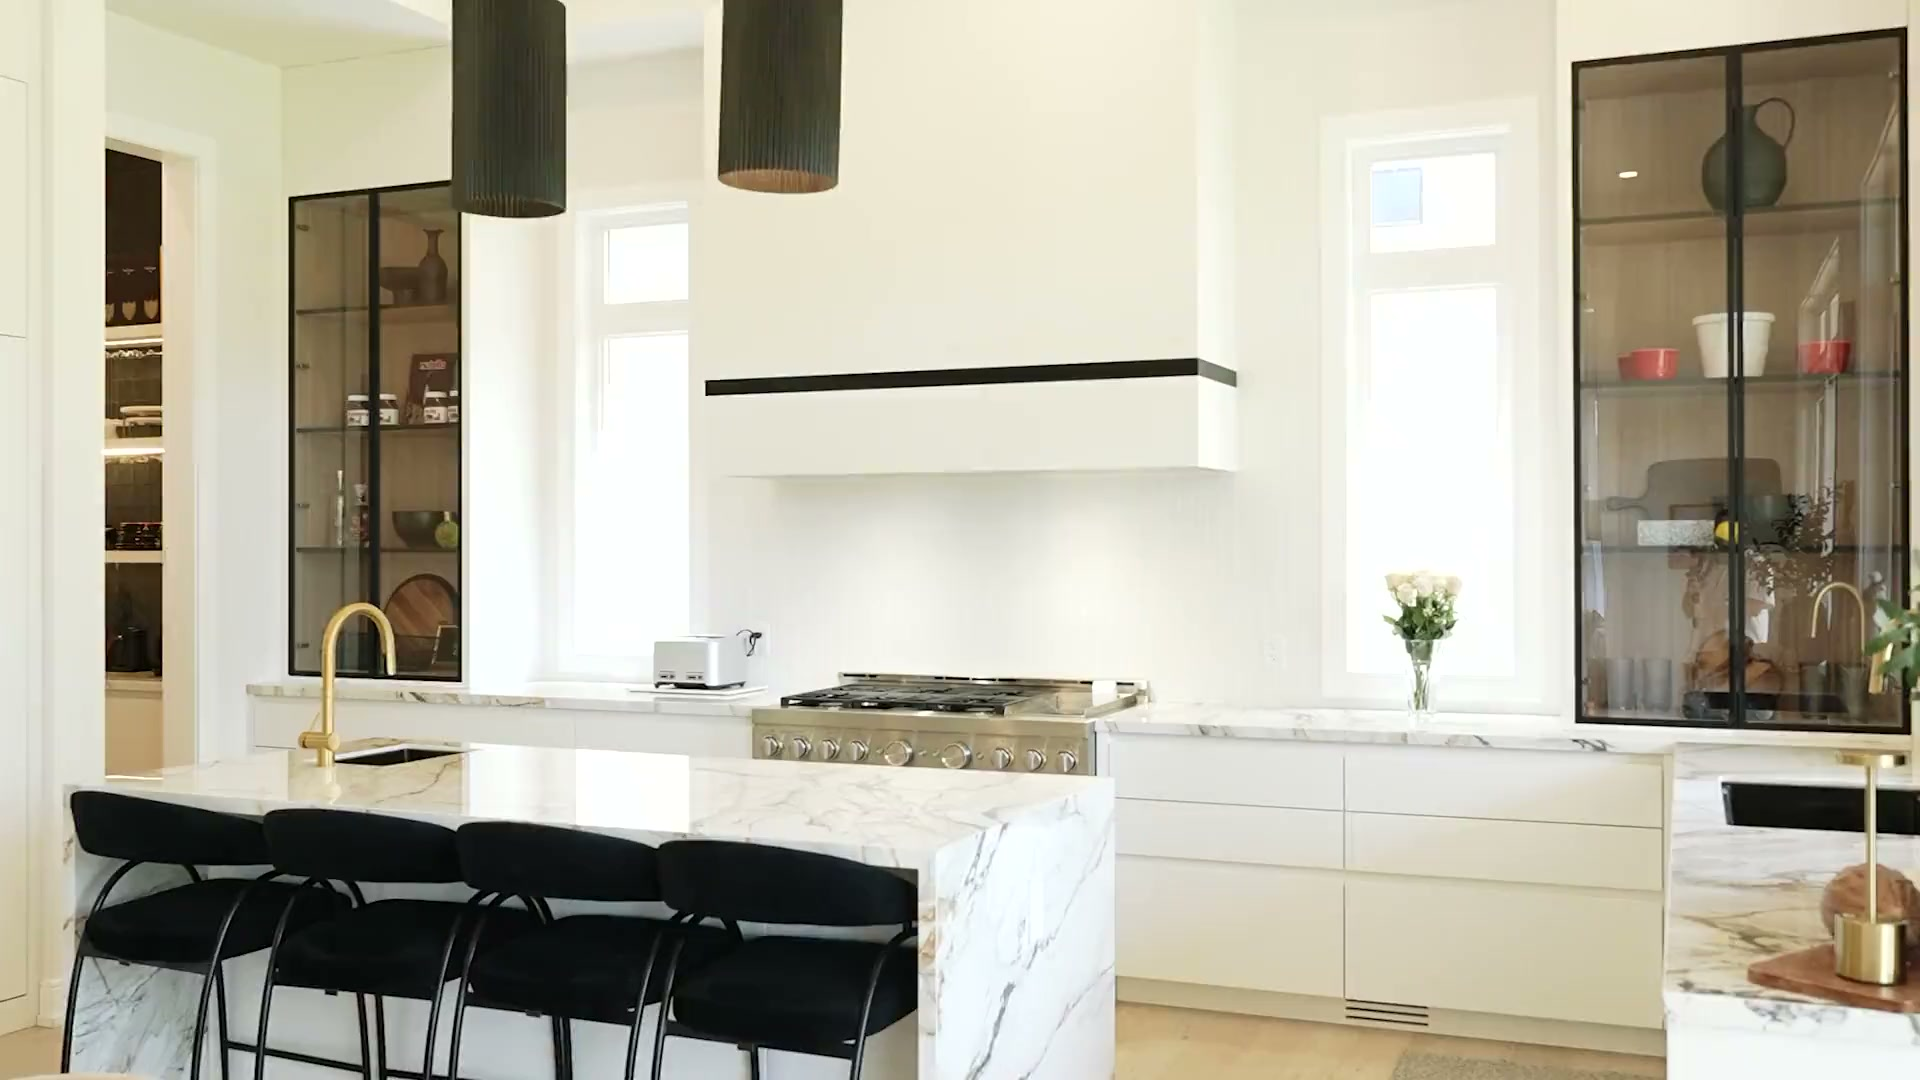
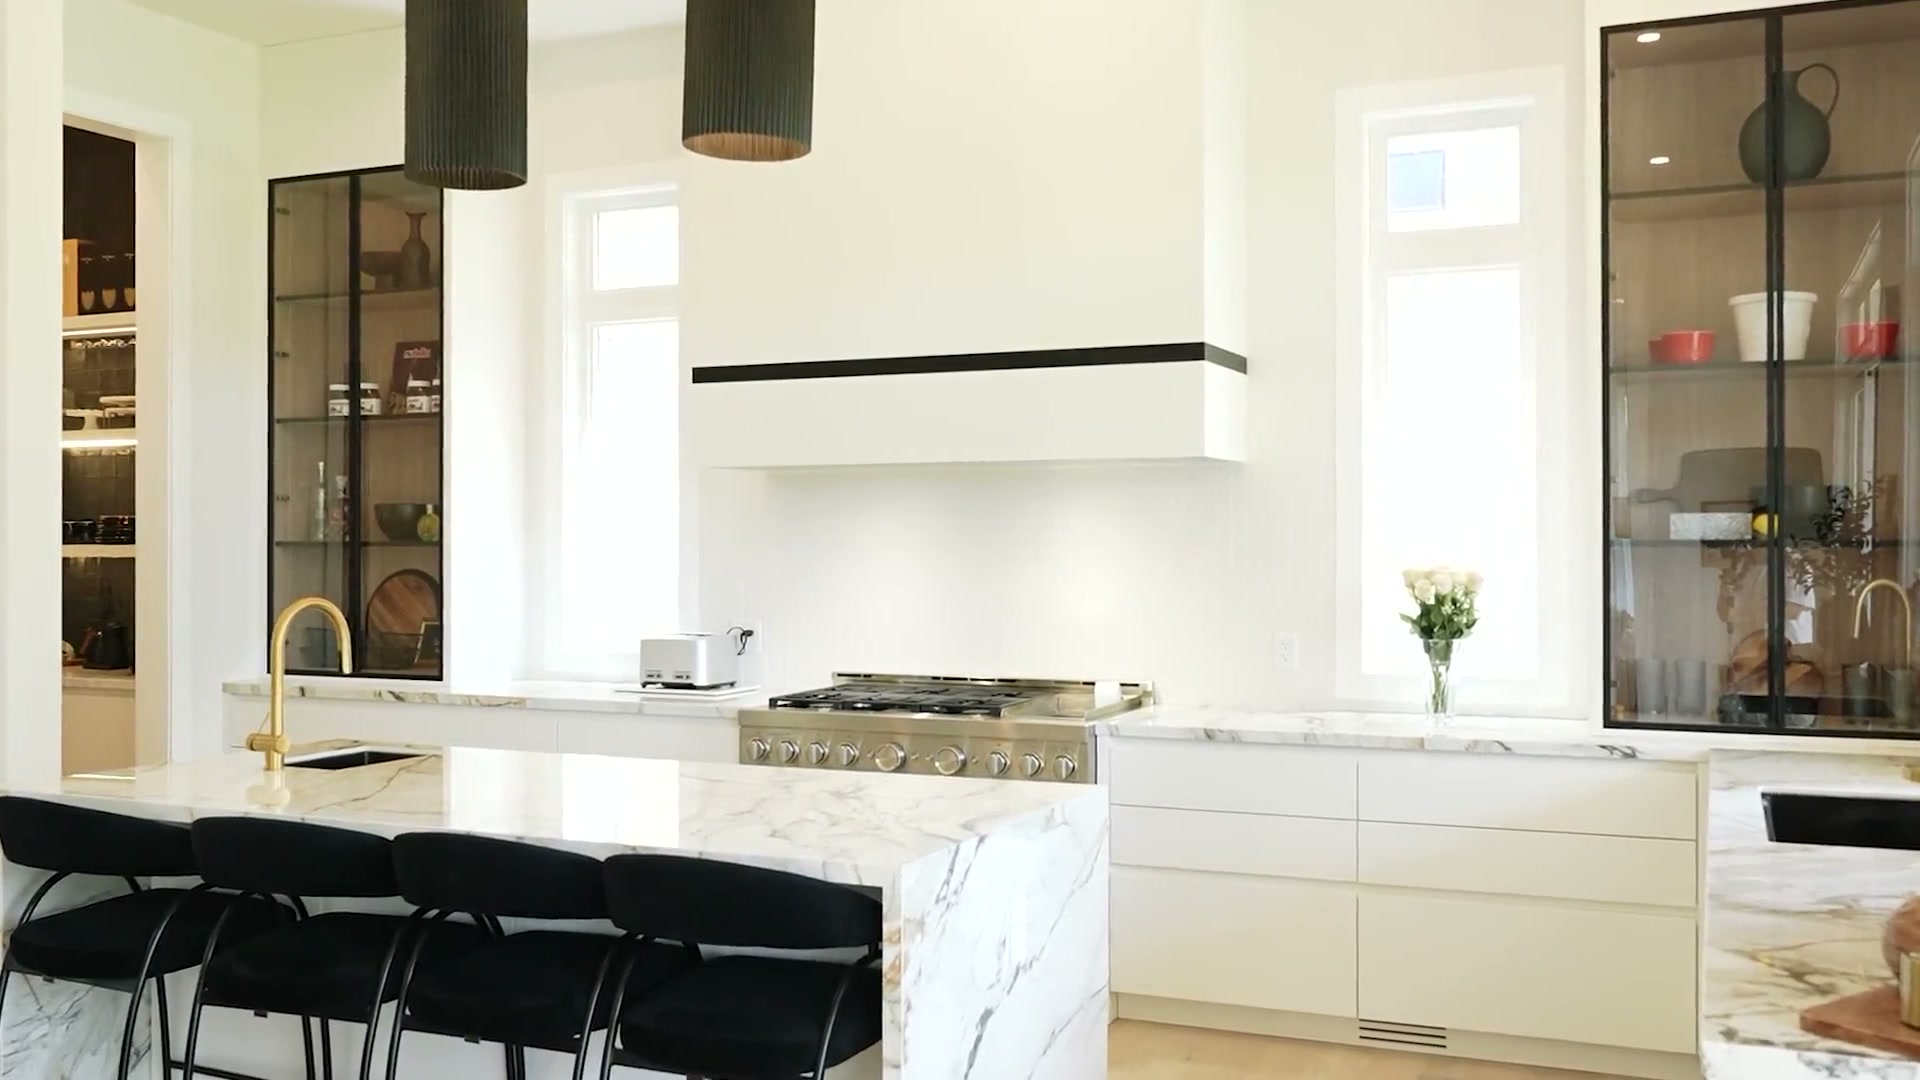
Hero video swap; title -> 'Southbury Homes'; Our Promise -> /about top
- Replace hero.mp4 with new June 29 cut (audio stripped, 1080p,
  faststart); regenerate poster from a 5s frame (opening fades from black)
- Home page <title> now just 'Southbury Homes'
- 'Our Promise' nav links point to /about (top) instead of #care, so it
  lands at the top of the page; home 'About our care' deep-link unchanged

diff --git a/index.html b/index.html
@@ -3,7 +3,7 @@
 <head>
   <meta charset="UTF-8" />
   <meta name="viewport" content="width=device-width, initial-scale=1" />
-  <title>Southbury Homes, Masterful Construction. Exceptional Living.</title>
+  <title>Southbury Homes</title>
   <meta name="description" content="Southbury Homes builds distinguished residences across the Greater Toronto Area. Established 2005. Explore our communities, design studio, homeowner programs and care." />
   <meta name="theme-color" content="#1b1a17" />
 
@@ -85,7 +85,7 @@
             Why Southbury<span class="nav__caret" aria-hidden="true"></span>
           </button>
           <div class="nav__panel" id="dd-about">
-            <a href="/about#care">Our Promise</a>
+            <a href="/about">Our Promise</a>
             <a href="/about#team">Our Lead</a>
           </div>
         </div>
@@ -144,7 +144,7 @@
           <span class="menu__index">04</span>Why Southbury<span class="menu__caret" aria-hidden="true"></span>
         </button>
         <div class="menu__sub"><div class="menu__sub-list">
-          <a href="/about#care">Our Promise</a>
+          <a href="/about">Our Promise</a>
           <a href="/about#team">Our Lead</a>
         </div></div>
       </div>

diff --git a/about.html b/about.html
@@ -54,7 +54,7 @@
         <div class="nav__item">
           <button type="button" class="nav__top nav__top--toggle" aria-expanded="false" aria-controls="dd-about">Why Southbury<span class="nav__caret" aria-hidden="true"></span></button>
           <div class="nav__panel" id="dd-about">
-            <a href="/about#care">Our Promise</a>
+            <a href="/about">Our Promise</a>
             <a href="/about#team">Our Lead</a>
           </div>
         </div>
@@ -97,7 +97,7 @@
       <div class="menu__group">
         <button type="button" class="menu__top" aria-expanded="false"><span class="menu__index">04</span>Why Southbury<span class="menu__caret" aria-hidden="true"></span></button>
         <div class="menu__sub"><div class="menu__sub-list">
-          <a href="/about#care">Our Promise</a>
+          <a href="/about">Our Promise</a>
           <a href="/about#team">Our Lead</a>
         </div></div>
       </div>

diff --git a/building-your-home.html b/building-your-home.html
@@ -54,7 +54,7 @@
         <div class="nav__item">
           <button type="button" class="nav__top nav__top--toggle" aria-expanded="false" aria-controls="dd-about">Why Southbury<span class="nav__caret" aria-hidden="true"></span></button>
           <div class="nav__panel" id="dd-about">
-            <a href="/about#care">Our Promise</a>
+            <a href="/about">Our Promise</a>
             <a href="/about#team">Our Lead</a>
           </div>
         </div>
@@ -97,7 +97,7 @@
       <div class="menu__group">
         <button type="button" class="menu__top" aria-expanded="false"><span class="menu__index">04</span>Why Southbury<span class="menu__caret" aria-hidden="true"></span></button>
         <div class="menu__sub"><div class="menu__sub-list">
-          <a href="/about#care">Our Promise</a>
+          <a href="/about">Our Promise</a>
           <a href="/about#team">Our Lead</a>
         </div></div>
       </div>

diff --git a/communities.html b/communities.html
@@ -54,7 +54,7 @@
         <div class="nav__item">
           <button type="button" class="nav__top nav__top--toggle" aria-expanded="false" aria-controls="dd-about">Why Southbury<span class="nav__caret" aria-hidden="true"></span></button>
           <div class="nav__panel" id="dd-about">
-            <a href="/about#care">Our Promise</a>
+            <a href="/about">Our Promise</a>
             <a href="/about#team">Our Lead</a>
           </div>
         </div>
@@ -97,7 +97,7 @@
       <div class="menu__group">
         <button type="button" class="menu__top" aria-expanded="false"><span class="menu__index">04</span>Why Southbury<span class="menu__caret" aria-hidden="true"></span></button>
         <div class="menu__sub"><div class="menu__sub-list">
-          <a href="/about#care">Our Promise</a>
+          <a href="/about">Our Promise</a>
           <a href="/about#team">Our Lead</a>
         </div></div>
       </div>

diff --git a/contact.html b/contact.html
@@ -54,7 +54,7 @@
         <div class="nav__item">
           <button type="button" class="nav__top nav__top--toggle" aria-expanded="false" aria-controls="dd-about">Why Southbury<span class="nav__caret" aria-hidden="true"></span></button>
           <div class="nav__panel" id="dd-about">
-            <a href="/about#care">Our Promise</a>
+            <a href="/about">Our Promise</a>
             <a href="/about#team">Our Lead</a>
           </div>
         </div>
@@ -97,7 +97,7 @@
       <div class="menu__group">
         <button type="button" class="menu__top" aria-expanded="false"><span class="menu__index">04</span>Why Southbury<span class="menu__caret" aria-hidden="true"></span></button>
         <div class="menu__sub"><div class="menu__sub-list">
-          <a href="/about#care">Our Promise</a>
+          <a href="/about">Our Promise</a>
           <a href="/about#team">Our Lead</a>
         </div></div>
       </div>

diff --git a/decor-studio.html b/decor-studio.html
@@ -54,7 +54,7 @@
         <div class="nav__item">
           <button type="button" class="nav__top nav__top--toggle" aria-expanded="false" aria-controls="dd-about">Why Southbury<span class="nav__caret" aria-hidden="true"></span></button>
           <div class="nav__panel" id="dd-about">
-            <a href="/about#care">Our Promise</a>
+            <a href="/about">Our Promise</a>
             <a href="/about#team">Our Lead</a>
           </div>
         </div>
@@ -97,7 +97,7 @@
       <div class="menu__group">
         <button type="button" class="menu__top" aria-expanded="false"><span class="menu__index">04</span>Why Southbury<span class="menu__caret" aria-hidden="true"></span></button>
         <div class="menu__sub"><div class="menu__sub-list">
-          <a href="/about#care">Our Promise</a>
+          <a href="/about">Our Promise</a>
           <a href="/about#team">Our Lead</a>
         </div></div>
       </div>

diff --git a/gallery.html b/gallery.html
@@ -54,7 +54,7 @@
         <div class="nav__item">
           <button type="button" class="nav__top nav__top--toggle" aria-expanded="false" aria-controls="dd-about">Why Southbury<span class="nav__caret" aria-hidden="true"></span></button>
           <div class="nav__panel" id="dd-about">
-            <a href="/about#care">Our Promise</a>
+            <a href="/about">Our Promise</a>
             <a href="/about#team">Our Lead</a>
           </div>
         </div>
@@ -97,7 +97,7 @@
       <div class="menu__group">
         <button type="button" class="menu__top" aria-expanded="false"><span class="menu__index">04</span>Why Southbury<span class="menu__caret" aria-hidden="true"></span></button>
         <div class="menu__sub"><div class="menu__sub-list">
-          <a href="/about#care">Our Promise</a>
+          <a href="/about">Our Promise</a>
           <a href="/about#team">Our Lead</a>
         </div></div>
       </div>

diff --git a/packages.html b/packages.html
@@ -54,7 +54,7 @@
         <div class="nav__item">
           <button type="button" class="nav__top nav__top--toggle" aria-expanded="false" aria-controls="dd-about">Why Southbury<span class="nav__caret" aria-hidden="true"></span></button>
           <div class="nav__panel" id="dd-about">
-            <a href="/about#care">Our Promise</a>
+            <a href="/about">Our Promise</a>
             <a href="/about#team">Our Lead</a>
           </div>
         </div>
@@ -97,7 +97,7 @@
       <div class="menu__group">
         <button type="button" class="menu__top" aria-expanded="false"><span class="menu__index">04</span>Why Southbury<span class="menu__caret" aria-hidden="true"></span></button>
         <div class="menu__sub"><div class="menu__sub-list">
-          <a href="/about#care">Our Promise</a>
+          <a href="/about">Our Promise</a>
           <a href="/about#team">Our Lead</a>
         </div></div>
       </div>

diff --git a/partials/_chrome.html b/partials/_chrome.html
@@ -96,7 +96,7 @@
           Why Southbury<span class="nav__caret" aria-hidden="true"></span>
         </button>
         <div class="nav__panel" id="dd-about">
-          <a href="/about#care">Our Promise</a>
+          <a href="/about">Our Promise</a>
           <a href="/about#team">Our Lead</a>
         </div>
       </div>
@@ -156,7 +156,7 @@
         <span class="menu__index">04</span>Why Southbury<span class="menu__caret" aria-hidden="true"></span>
       </button>
       <div class="menu__sub"><div class="menu__sub-list">
-        <a href="/about#care">Our Promise</a>
+        <a href="/about">Our Promise</a>
         <a href="/about#team">Our Lead</a>
       </div></div>
     </div>

diff --git a/seasonal-maintenance.html b/seasonal-maintenance.html
@@ -54,7 +54,7 @@
         <div class="nav__item">
           <button type="button" class="nav__top nav__top--toggle" aria-expanded="false" aria-controls="dd-about">Why Southbury<span class="nav__caret" aria-hidden="true"></span></button>
           <div class="nav__panel" id="dd-about">
-            <a href="/about#care">Our Promise</a>
+            <a href="/about">Our Promise</a>
             <a href="/about#team">Our Lead</a>
           </div>
         </div>
@@ -97,7 +97,7 @@
       <div class="menu__group">
         <button type="button" class="menu__top" aria-expanded="false"><span class="menu__index">04</span>Why Southbury<span class="menu__caret" aria-hidden="true"></span></button>
         <div class="menu__sub"><div class="menu__sub-list">
-          <a href="/about#care">Our Promise</a>
+          <a href="/about">Our Promise</a>
           <a href="/about#team">Our Lead</a>
         </div></div>
       </div>